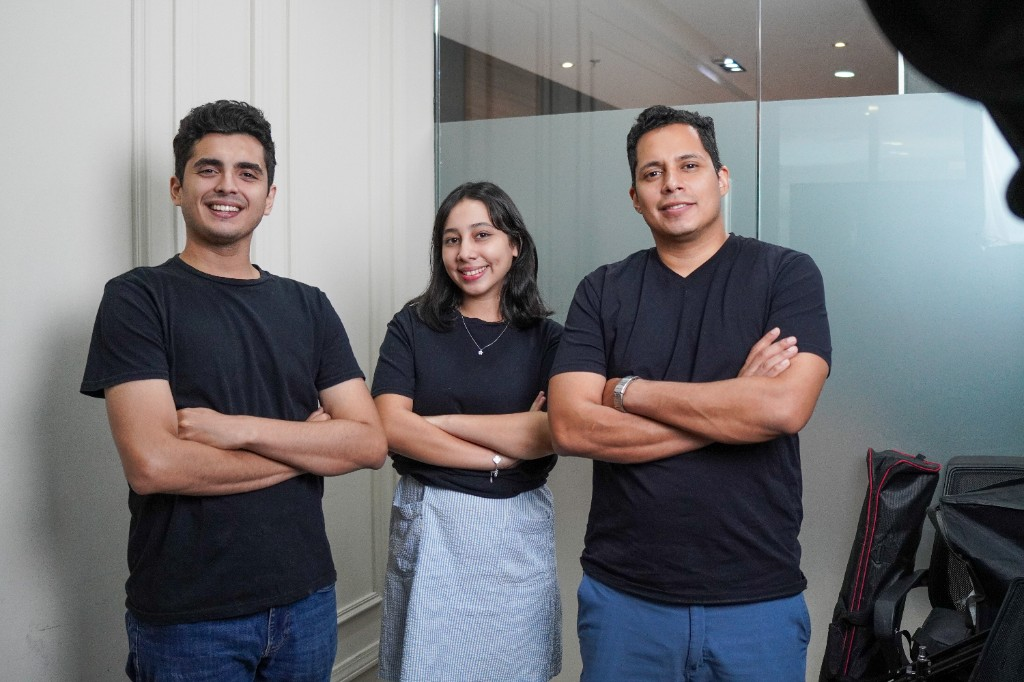
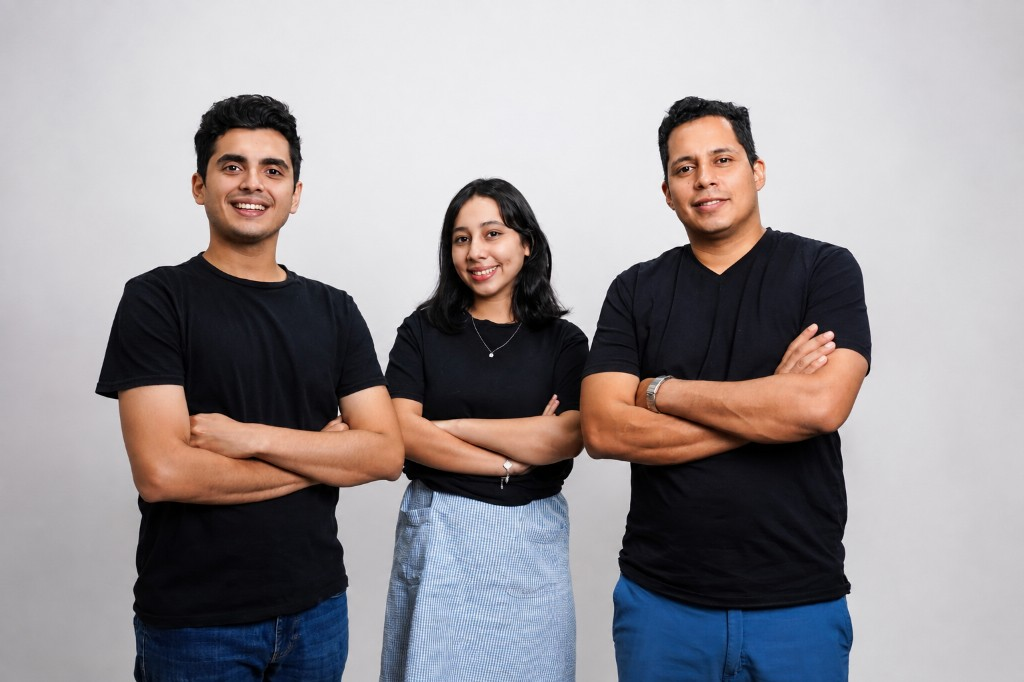
Add TeamCarousel component to Sobre Cluster Page and update team image

diff --git a/src/components/home/TeamCarousel.tsx b/src/components/home/TeamCarousel.tsx
@@ -1,0 +1,110 @@
+'use client';
+
+import Image from 'next/image';
+import { useEffect, useState } from 'react';
+import { Icon } from '@/components/ui/Icon';
+
+const slides = [
+  {
+    src: '/assets/stock/equipo/01.jpg',
+    alt: 'Integrante del equipo Cluster Media',
+    width: 682,
+    height: 1024,
+  },
+  {
+    src: '/assets/stock/equipo/02.jpg',
+    alt: 'Integrante del equipo Cluster Media',
+    width: 682,
+    height: 1024,
+  },
+  {
+    src: '/assets/stock/equipo/03.jpg',
+    alt: 'Integrante del equipo Cluster Media',
+    width: 682,
+    height: 1024,
+  },
+  {
+    src: '/assets/stock/equipo/04.jpg',
+    alt: 'Equipo de Cluster Media',
+    width: 1024,
+    height: 682,
+  },
+  {
+    src: '/assets/stock/equipo/05.jpg',
+    alt: 'Equipo de Cluster Media grabando contenido en estudio',
+    width: 1024,
+    height: 682,
+  },
+] as const;
+
+export function TeamCarousel() {
+  const [index, setIndex] = useState(0);
+
+  useEffect(() => {
+    const id = window.setInterval(() => {
+      setIndex((prev) => (prev + 1) % slides.length);
+    }, 4500);
+    return () => window.clearInterval(id);
+  }, []);
+
+  function goTo(next: number) {
+    setIndex((next + slides.length) % slides.length);
+  }
+
+  return (
+    <div className="relative mx-auto mt-12 max-w-5xl">
+      <div className="relative aspect-[3/2] overflow-hidden bg-ink-950/[0.04]">
+        {slides.map((slide, i) => (
+          <div
+            key={slide.src}
+            className={`absolute inset-0 transition-opacity duration-700 ${
+              i === index ? 'opacity-100' : 'opacity-0'
+            }`}
+            aria-hidden={i !== index}
+          >
+            <Image
+              src={slide.src}
+              alt={slide.alt}
+              fill
+              sizes="(max-width: 1024px) 100vw, 1024px"
+              className="object-contain object-center"
+              priority={i === 0}
+            />
+          </div>
+        ))}
+
+        <button
+          type="button"
+          aria-label="Foto anterior"
+          onClick={() => goTo(index - 1)}
+          className="absolute left-3 top-1/2 z-[1] flex h-11 w-11 -translate-y-1/2 items-center justify-center bg-ink-950/70 text-fg transition-colors hover:bg-accent hover:text-accent-fg sm:left-5"
+        >
+          <Icon name="arrow-right" size={18} className="rotate-180" />
+        </button>
+        <button
+          type="button"
+          aria-label="Foto siguiente"
+          onClick={() => goTo(index + 1)}
+          className="absolute right-3 top-1/2 z-[1] flex h-11 w-11 -translate-y-1/2 items-center justify-center bg-ink-950/70 text-fg transition-colors hover:bg-accent hover:text-accent-fg sm:right-5"
+        >
+          <Icon name="arrow-right" size={18} />
+        </button>
+      </div>
+
+      <div className="mt-5 flex items-center justify-center gap-2">
+        {slides.map((slide, i) => (
+          <button
+            key={slide.src}
+            type="button"
+            aria-label={`Ir a foto ${i + 1}`}
+            aria-current={i === index}
+            onClick={() => setIndex(i)}
+            className={`h-1.5 transition-all duration-300 ${
+              i === index ? 'w-8 bg-accent' : 'w-1.5 bg-ink-950/20 hover:bg-ink-950/40'
+            }`}
+          />
+        ))}
+      </div>
+    </div>
+  );
+}

diff --git a/src/app/sobre-cluster/page.tsx b/src/app/sobre-cluster/page.tsx
@@ -5,6 +5,7 @@ import { CheckList } from '@/components/blocks/Blocks';
 import { CTASection } from '@/components/blocks/CTASection';
 import { Reveal } from '@/components/ui/Reveal';
 import { Icon, type IconName } from '@/components/ui/Icon';
+import { TeamCarousel } from '@/components/home/TeamCarousel';
 import { JsonLd, breadcrumbSchema } from '@/components/seo/JsonLd';
 import { site } from '@/lib/site';
 
@@ -122,6 +123,9 @@ export default function SobrePage() {
             description="Estrategia, diseño, edición audiovisual, contenido, campañas, CRM, automatización y websites trabajando juntos para que tu negocio conecte mejor y crezca."
           />
         </div>
+        <Reveal delay={120}>
+          <TeamCarousel />
+        </Reveal>
       </Section>
 
       <CTASection
